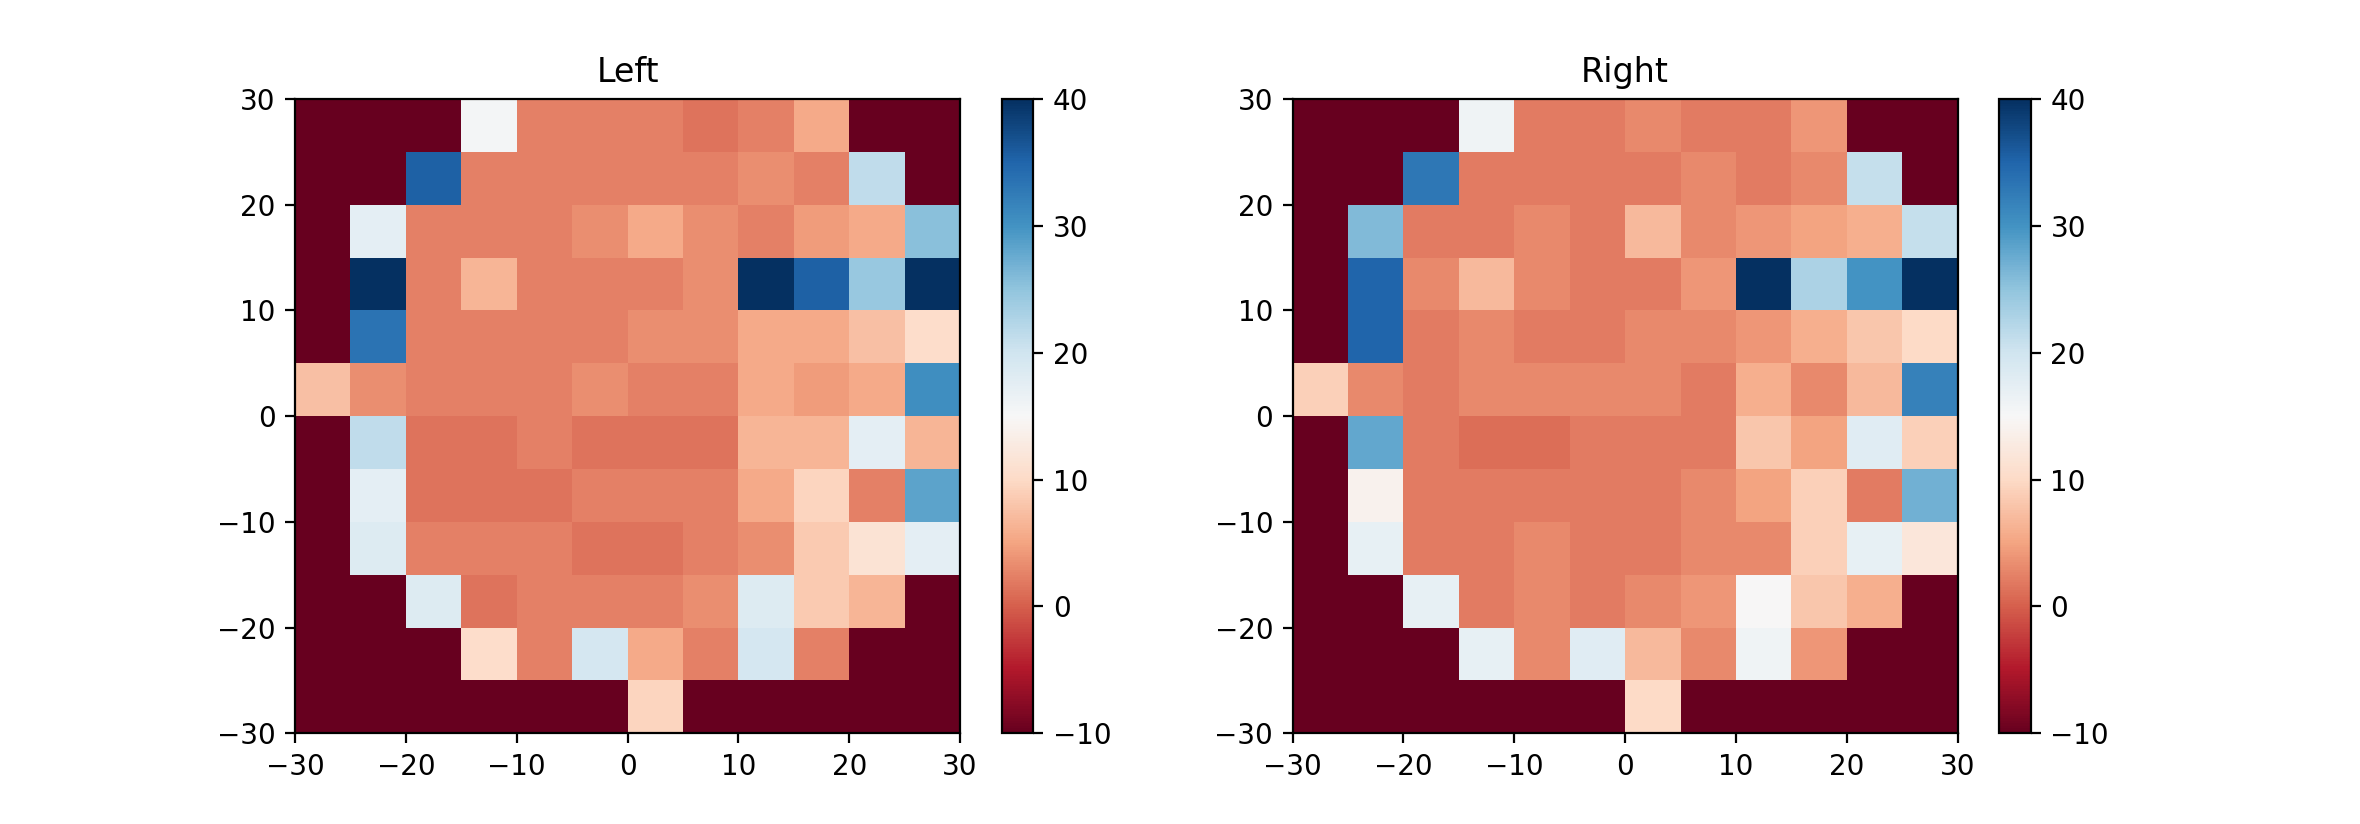
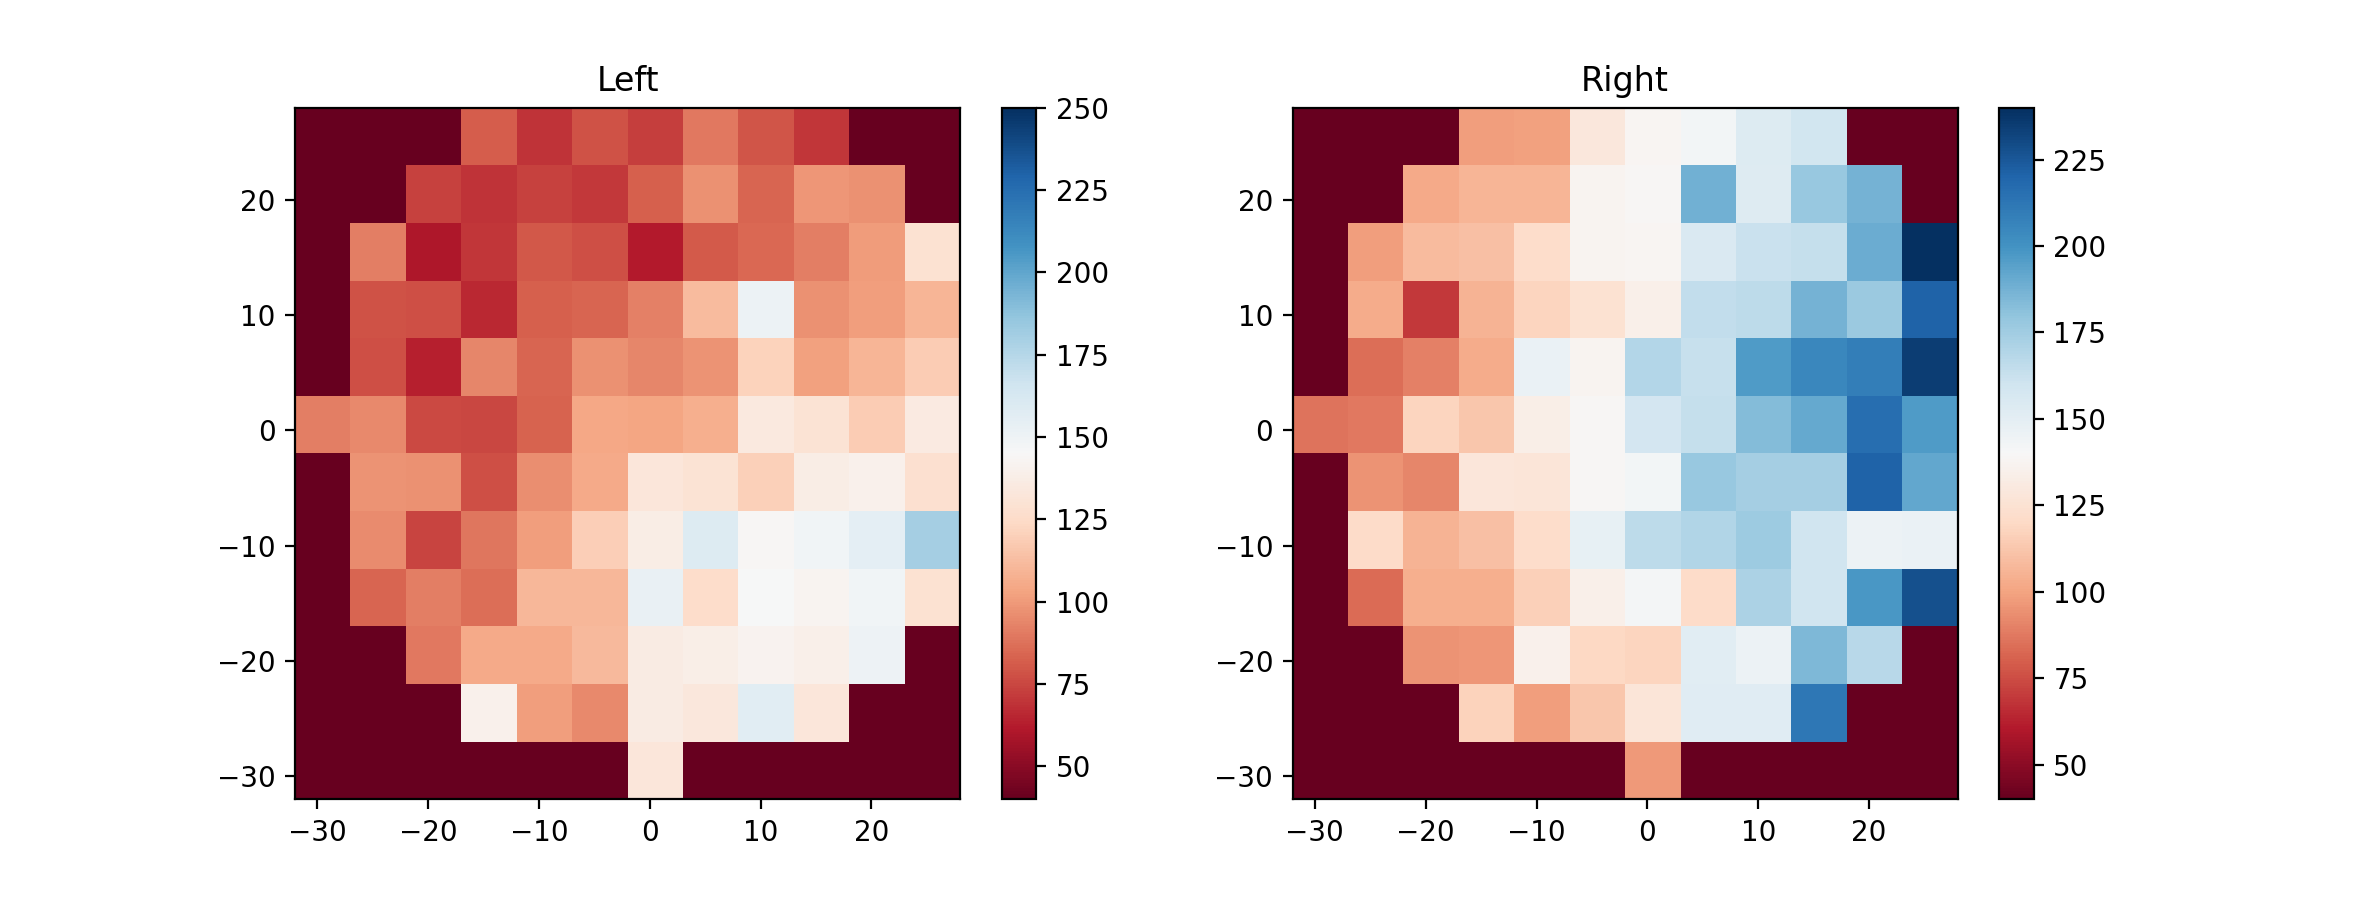
collecting data using the loudest sound, and phone

diff --git a/Arduino/DeltaZ_communication/pyserial_test.py b/Arduino/DeltaZ_communication/pyserial_test.py
@@ -6,7 +6,8 @@ from collections import deque
 import matplotlib
 import re
 # matplotlib.use('agg')
-ser = serial.Serial('/dev/cu.usbserial-120')
+# ser = serial.Serial('/dev/cu.usbserial-120')
+ser = serial.Serial('/dev/cu.wchusbserial1410')
 time.sleep(2)
 print(ser.name)
 
@@ -41,9 +42,9 @@ def peak_value(steps, percent, shifts):
     l2 = np.abs(l2 - shifts[1])
     l1 = sorted(l1)
     l2 = sorted(l2)
-    idx = int(percent * len(l1))
-    # return np.array([l1[idx], l2[idx]])
-    return np.array([np.mean(l1), np.mean(l2)])
+    idx = int(percent * (len(l1)-1))
+    return np.array([l1[idx], l2[idx]])
+    # return np.array([np.mean(l1), np.mean(l2)])
 
 def plot_data(time_steps, mic1, mic2):
     # plt.clf()
@@ -76,10 +77,10 @@ def collect_data(sep):
                 move_to(x,y,z)
                 time.sleep(1)
                 if first_time:
-                    time.sleep(2)
+                    # time.sleep(2)
                     first_time=False
-                pv = peak_value(100, 0.7, shifts)
-                time.sleep(1.5)
+                pv = peak_value(100, 1.0, shifts)
+                # time.sleep(1.5)
                 print(pv)
                 data.append(((x,y), pv))
     return data
@@ -105,12 +106,12 @@ def visualize_data(data_file, sep):
     # print("l")
     # print(l)
     fig, axs = plt.subplots(1,2)
-    c = axs[0].pcolormesh(x, y, l, cmap='RdBu', vmin=-10, vmax=40)
+    c = axs[0].pcolormesh(x, y, l, cmap='RdBu', vmin=40, vmax=250)
     axs[0].set_title('Left')
     axs[0].axis([x.min(), x.max(), y.min(), y.max()])
     fig.colorbar(c, ax=axs[0])
 
-    c = axs[1].pcolormesh(x, y, r, cmap='RdBu', vmin=-10, vmax=40)
+    c = axs[1].pcolormesh(x, y, r, cmap='RdBu', vmin=40, vmax=240)
     axs[1].set_title('Right')
     axs[1].axis([x.min(), x.max(), y.min(), y.max()])
     fig.colorbar(c, ax=axs[1])
@@ -125,13 +126,12 @@ def test():
     plot_data(range(100), l, r)
 
 def collect_and_save_data(save_path):
-    sep=10
+    sep=5
     data = collect_data(sep=sep)
     np.savez(save_path, data=data)
     visualize_data(save_path,sep)
 
 def load_data(save_path):
-    np.savez(save_path, data=data)
     visualize_data(save_path)
 
 
